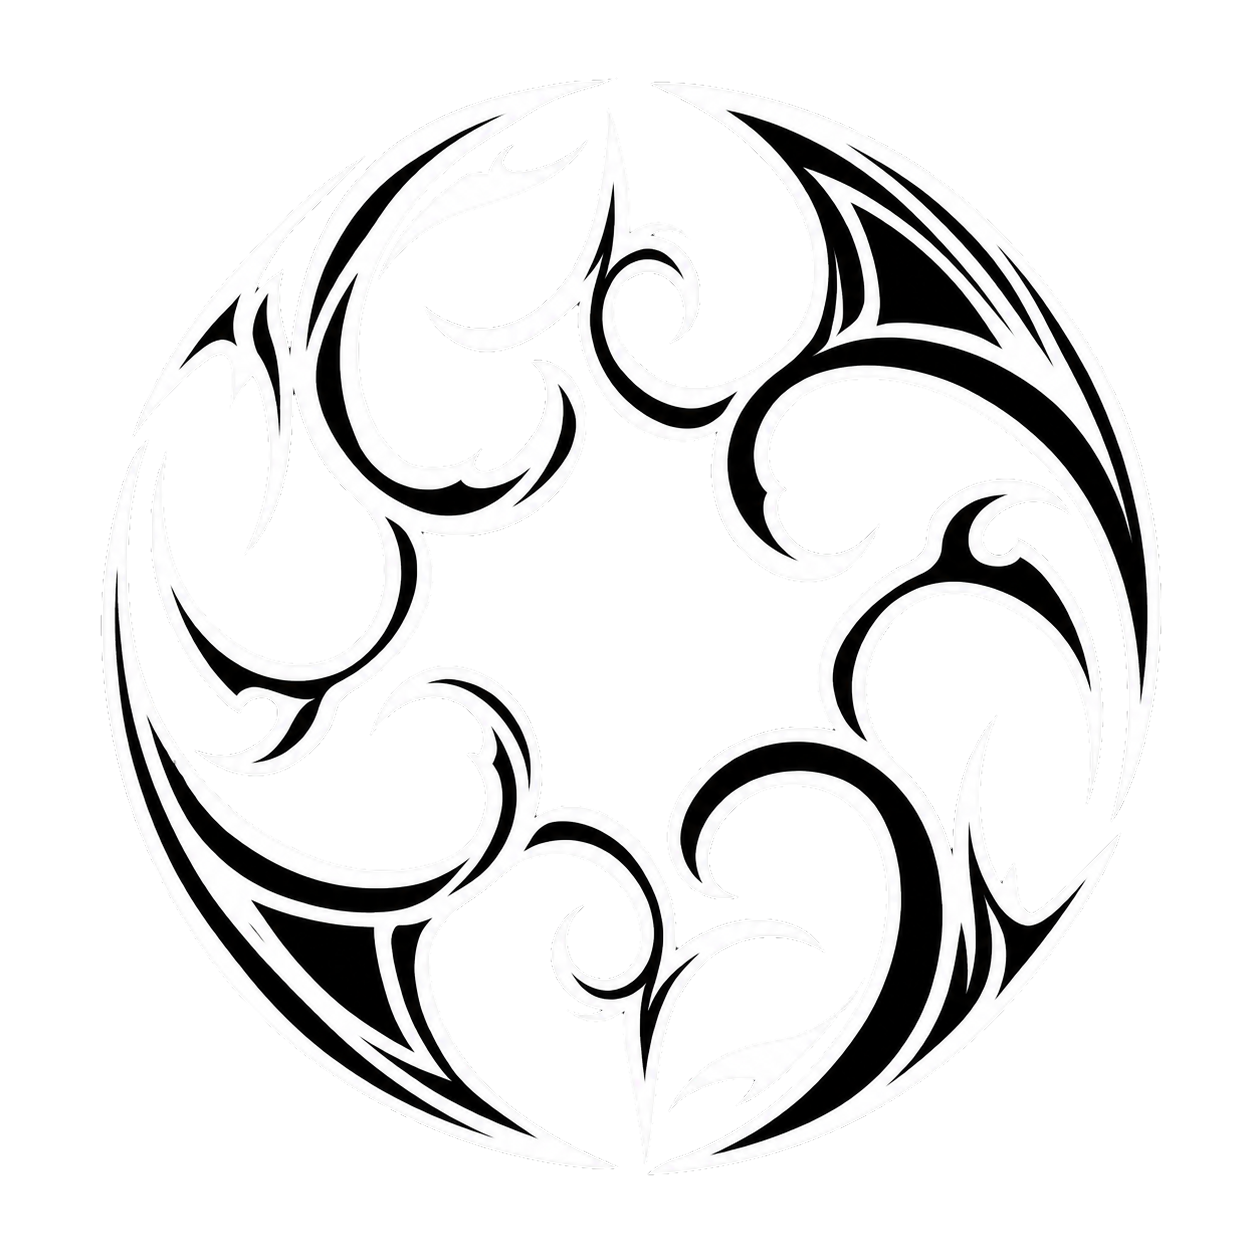
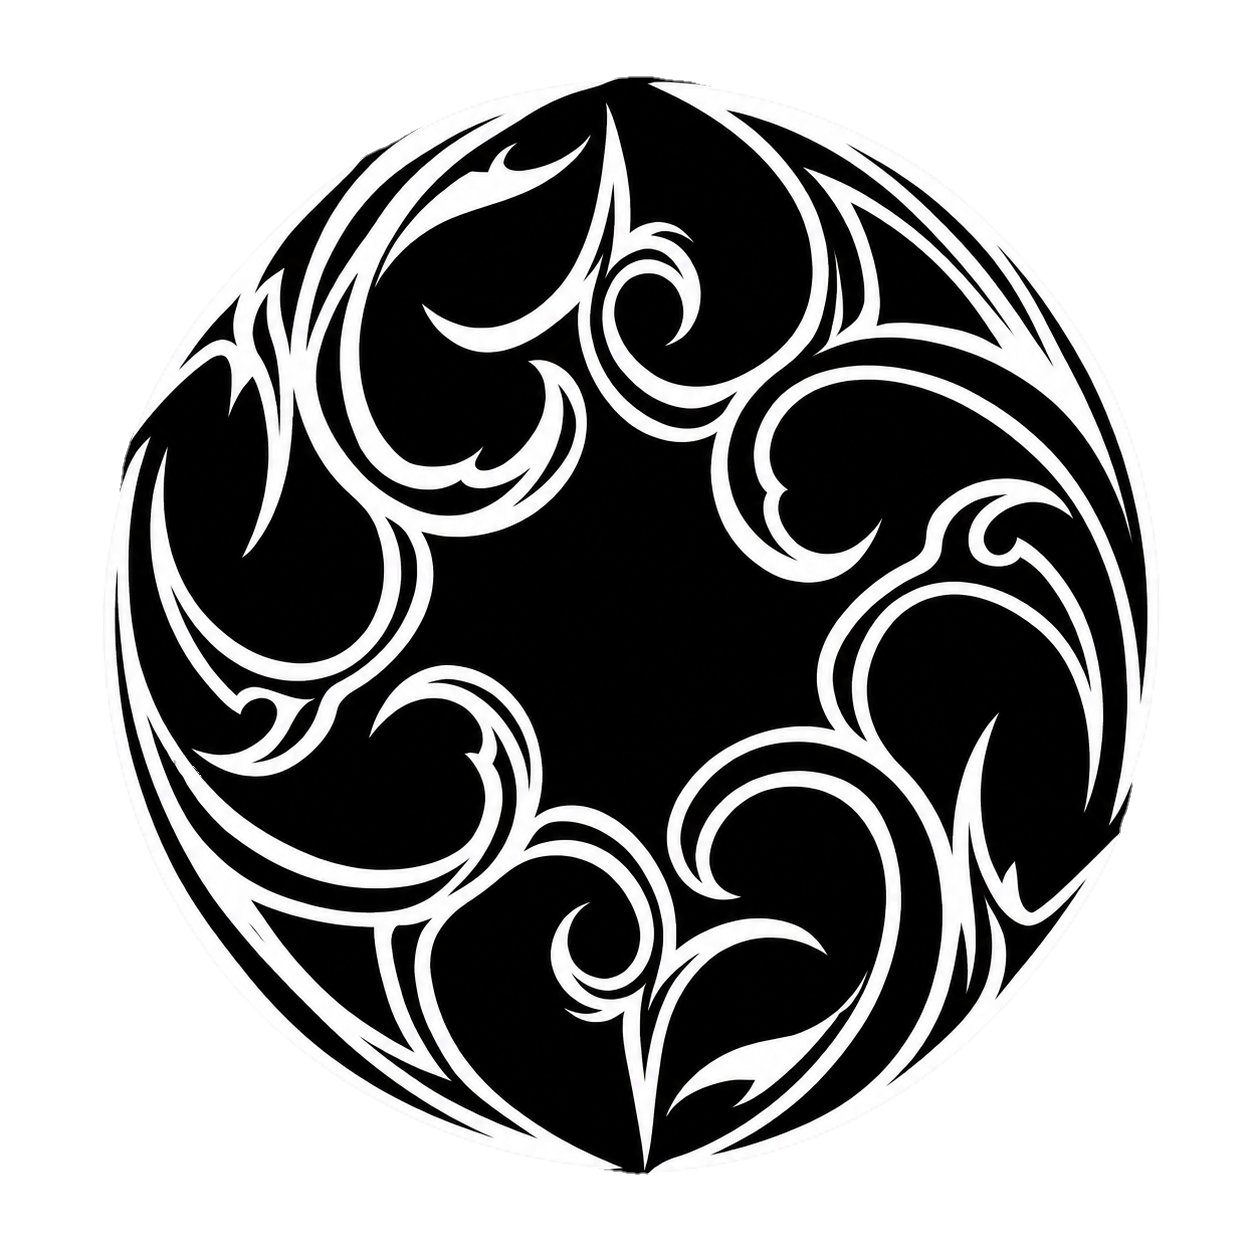
Torna status e vínculos dos personagens objetivos e atualiza o ícone
Status agora é sempre um de três: Vivo/Morto/Desconhecido (remove detalhes como
"arrastado para o Limbo" ou "circunstâncias contestadas"); Krauser passa de
"Destruído" para "Morto". Vínculos ficam enxutos: remove os indiretos/sem relação
direta (Gyotto não tem "vínculo" com as vítimas Tia Lanis/Emma; Viktor não lista
o Mascarado) e encurta as descrições de relação para uma ou duas palavras.

Atualiza também a imagem do ícone do site (mesmo nome de arquivo).

diff --git a/js/data.js b/js/data.js
@@ -13,7 +13,7 @@ const ENTITIES = {
     nome: "Kiana",
     epiteto: "A bardo de [[vardun]] · narradora e protagonista",
     status: "alive",
-    statusLabel: "Viva — arrastada para o [[o-limbo|Limbo]]",
+    statusLabel: "Viva",
     imagem: "Imagens/Kiana.jpeg",
     resumo: "Bardo meia-orc de cabelos brancos e olhos vermelhos, criada em um orfanato e resgatada por Viktor Vanshee. Carrega um poder ainda sem nome.",
     campos: {
@@ -25,8 +25,8 @@ const ENTITIES = {
         { slug: "darin-leafheart", nome: "Darin Leafheart", relacao: "Amigo" },
         { slug: "rurik", nome: "Rurik", relacao: "Figura paterna adotiva" },
         { slug: "calista-vanshee", nome: "Calista Vanshee", relacao: "Aliada" },
-        { slug: "tia-lanis", nome: "Tia Lanis", relacao: "Cuidadora falecida" },
-        { slug: "emma", nome: "Emma", relacao: "Melhor amiga falecida" }
+        { slug: "tia-lanis", nome: "Tia Lanis", relacao: "Cuidadora" },
+        { slug: "emma", nome: "Emma", relacao: "Melhor amiga" }
       ],
       "Aparência": "Meia-orc, cabelos brancos longos, olhos vermelhos brilhantes mesmo no escuro. Carrega sempre um [[ukulele-de-kiana|ukulele]] e uma [[adaga-de-kael|adaga]].",
       "Feitos": "Massacrou sozinha mais de vinte homens na Taverna de Darius, em [[vardun|Vardun]], num episódio de fúria amnésica (o \"apagão\"). Ajudou a derrotar a criatura multi-elemental do [[vale-das-flores-sangrentas|Vale das Flores Sangrentas]]. Confrontou o Falso Presságio nas ruas de [[hikari|Hikari]]. Lutou no ritual da caverna contra o Presságio-isca. Enfrentou diretamente o verdadeiro Quinto Presságio ([[lorde-krauser|Lorde Krauser]]), desenvolvendo em pleno combate a técnica [[manifestacao-harmonica|Manifestação Harmônica]], decisiva para a derrota final do inimigo.",
@@ -44,7 +44,7 @@ const ENTITIES = {
     nome: "Near Shade",
     epiteto: "O elfo da máscara",
     status: "alive",
-    statusLabel: "Vivo — arrastado para o [[o-limbo|Limbo]]",
+    statusLabel: "Vivo",
     imagem: "Imagens/NearShade.jpeg",
     resumo: "Elfo ladino de máscara preta, amigo de Kiana há três anos. Raramente mostra o rosto ou fala sobre o próprio passado.",
     campos: {
@@ -66,7 +66,7 @@ const ENTITIES = {
     nome: "Amnon Akmenos",
     epiteto: "O tiefling exilado",
     status: "alive",
-    statusLabel: "Vivo — arrastado para o [[o-limbo|Limbo]]",
+    statusLabel: "Vivo",
     imagem: "Imagens/AmnonAkmenos.jpeg",
     resumo: "Tiefling de origem burguesa, expulso da própria família por uma acusação injusta. Esconde a dor atrás de deboche e bebida.",
     campos: {
@@ -75,7 +75,7 @@ const ENTITIES = {
         { slug: "kiana", nome: "Kiana", relacao: "Amiga" },
         { slug: "near-shade", nome: "Near Shade", relacao: "Amigo" },
         { slug: "darin-leafheart", nome: "Darin Leafheart", relacao: "Amigo" },
-        { slug: null, nome: "Família Akmenos", relacao: "Rompida e hostil" }
+        { slug: null, nome: "Família Akmenos", relacao: "Família (rompida)" }
       ],
       "Aparência": "Tiefling, chifres curtos, pele de um vermelho vivo.",
       "Feitos": "Segurou com as próprias mãos o núcleo em chamas da criatura elemental do [[vale-das-flores-sangrentas|Vale das Flores Sangrentas]], sofrendo queimaduras graves para permitir que [[calista-vanshee|Calista]] a eliminasse. Lutou com arco contra o Presságio-isca na caverna. Defendeu civis com arma improvisada durante o ataque de sombras em [[hikari|Hikari]].",
@@ -89,7 +89,7 @@ const ENTITIES = {
     nome: "Darin Leafheart",
     epiteto: "O druida dos lobos",
     status: "alive",
-    statusLabel: "Vivo — arrastado para o [[o-limbo|Limbo]]",
+    statusLabel: "Vivo",
     imagem: "Imagens/Darin.jpeg",
     resumo: "Druida humano cujo vínculo com lobos moldou um raro Sigilo Autoformado. Alterna euforia etílica e fuga da própria mente.",
     campos: {
@@ -98,7 +98,7 @@ const ENTITIES = {
         { slug: "kiana", nome: "Kiana", relacao: "Amiga" },
         { slug: "near-shade", nome: "Near Shade", relacao: "Amigo" },
         { slug: "amnon-akmenos", nome: "Amnon Akmenos", relacao: "Amigo" },
-        { slug: "yuto", nome: "Yuto", relacao: "Aliado de combate" }
+        { slug: "yuto", nome: "Yuto", relacao: "Aliado" }
       ],
       "Aparência": "Cabelos castanhos desgrenhados, presença de \"brilho caótico\".",
       "Feitos": "Identificou o loop espacial que prendia o grupo no [[vale-das-flores-sangrentas|Vale das Flores Sangrentas]]. Atuou como cozinheiro do grupo durante a travessia. Lutou com garras espirituais de lobo contra o Presságio-isca na caverna e, ao lado de [[yuto|Yuto]], contra as sombras gigantes no ataque a [[hikari|Hikari]].",
@@ -112,17 +112,16 @@ const ENTITIES = {
     nome: "Viktor Vanshee",
     epiteto: "O Pilar do Gelo · Mestre do Gelo",
     status: "alive",
-    statusLabel: "Vivo, gravemente debilitado — arrastado para o [[o-limbo|Limbo]]",
+    statusLabel: "Vivo",
     imagem: "Imagens/ViktorVanshee.jpeg",
     resumo: "Meio-elfo nascido com o Sigilo do Gelo já desperto — um caso raríssimo de Herança Celestial. Mentor e salvador de Kiana.",
     campos: {
       "Biografia": "Meio-elfo que nasceu já com seu Sigilo desperto, um caso raríssimo de Herança Celestial. Anos antes do início da trama, chegou tarde demais para impedir o massacre de um orfanato, mas matou o atacante — [[gyotto|Gyotto]], o Sexto Presságio, então ainda conhecido apenas como \"o garoto da tinta\" — e resgatou a única sobrevivente, [[kiana|Kiana]], tornando-se seu mentor. Casado com [[calista-vanshee|Calista Vanshee]]. Perdeu o melhor amigo, [[kael|Kael]], em circunstâncias contestadas — Viktor afirma que goblins o mataram, mas o Falso Presságio reivindica ter matado Kael pessoalmente, uma contradição jamais resolvida neste volume. É reverenciado quase como uma divindade por \"[[o-mascarado|o Mascarado]]\", figura de autoridade entre os Presságios, que o descreve como alguém que já matou ao menos um Presságio numerado (o Sexto, Gyotto) e, possivelmente, outro (Gauss, supostamente ligado ao misterioso [[ankiquilarke|Ankiquilarke]]) — ainda que os registros históricos oficiais atribuam essa segunda morte a um tal \"Gale Akmenos\". Foi sequestrado, torturado e quase destruído por [[lorde-krauser|Lorde Krauser]] antes do início da busca do grupo por ele; libertado da corrupção mágica que o consumia apenas pelo sacrifício final de Calista.",
       "Vínculos": [
         { slug: "kiana", nome: "Kiana", relacao: "Aprendiz" },
-        { slug: "calista-vanshee", nome: "Calista Vanshee", relacao: "Esposa falecida" },
-        { slug: "kael", nome: "Kael", relacao: "Melhor amigo falecido" },
-        { slug: "rurik", nome: "Rurik", relacao: "Pai" },
-        { slug: "o-mascarado", nome: "O Mascarado", relacao: "Reverencia-o; relação não esclarecida" }
+        { slug: "calista-vanshee", nome: "Calista Vanshee", relacao: "Esposa" },
+        { slug: "kael", nome: "Kael", relacao: "Melhor amigo" },
+        { slug: "rurik", nome: "Rurik", relacao: "Pai" }
       ],
       "Aparência": "Traços élficos marcados, cabelos brancos longos presos, veste tons de branco e azul ou um sobretudo pesado; postura de \"viajante antigo\".",
       "Feitos": "Matou [[gyotto|Gyotto]], o Sexto Presságio — o mesmo \"garoto da tinta\" responsável pelo massacre do orfanato de Kiana. Resgatou e criou Kiana. Possivelmente matou também o Presságio Gauss. Foi capturado por Krauser. Libertado pelo sacrifício de Calista. Derrotou [[lorde-krauser|Lorde Krauser]] em combate direto, culminando num golpe surpreendente de fogo branco-dourado chamado \"Punho Flamejante\".",
@@ -146,9 +145,8 @@ const ENTITIES = {
       "Biografia": "Esposa de [[viktor-vanshee|Viktor Vanshee]], natural de [[emberfall|EmberFall]], onde resolvia \"assuntos pendentes da família\" antes do início da trama. Guerreira e arqueira de precisão extraordinária, com conhecimento de runas (embora inferior ao de Viktor). Contou ao grupo a lenda de Kynare e o Corvo Celeste para explicar a natureza dos [[termo-pressagio|Presságios]]. Ao ser atingida pelo cristal vermelho de [[lorde-krauser|Lorde Krauser]], gritou \"MÃE!\" — um grito de agonia que sugere um trauma ou vínculo não resolvido com a própria mãe, jamais esclarecido no volume. No clímax da batalha final, sacrificou a própria vida beijando Viktor para transferir para si a corrupção mágica (as cicatrizes negras) que o consumia, purificando-o ao custo da própria morte.",
       "Vínculos": [
         { slug: "viktor-vanshee", nome: "Viktor Vanshee", relacao: "Marido" },
-        { slug: "kiana", nome: "Kiana", relacao: "Quase-irmã mais velha" },
-        { slug: "kael", nome: "Kael", relacao: "Amigo do casal, falecido" },
-        { slug: null, nome: "Sua mãe", relacao: "Vínculo não resolvido; mencionada só em um grito de agonia" }
+        { slug: "kiana", nome: "Kiana", relacao: "Quase-irmã" },
+        { slug: "kael", nome: "Kael", relacao: "Amigo" }
       ],
       "Aparência": "Cabelos ruivos ondulados, presença segura e \"maior que a própria vida\".",
       "Feitos": "Resgatou o grupo preso no [[vale-das-flores-sangrentas|Vale das Flores Sangrentas]]. Derrotou a essência de vento da criatura elemental. Investigou [[lorde-krauser|Lorde Krauser]] junto a Kiana em [[hikari|Hikari]]. Lutou bravamente contra Krauser até ser mortalmente ferida. Sacrificou-se para purificar e salvar Viktor.",
@@ -165,14 +163,13 @@ const ENTITIES = {
     nome: "Yuto",
     epiteto: "O ronin de passagem",
     status: "unknown",
-    statusLabel: "Destino incerto após o ritual final",
+    statusLabel: "Desconhecido",
     imagem: "Imagens/Yuto.jpeg",
     resumo: "Ronin viajante que cruza o caminho do grupo em Hikari, em busca de alguém. Luta com maestria puramente marcial.",
     campos: {
       "Biografia": "Ronin viajante que cruza o caminho do grupo em [[hikari|Hikari]] \"por um motivo parecido\" ao deles — em busca de alguém, sem maiores detalhes revelados neste volume. Sereno e observador, promete a [[darin-leafheart|Darin]] que \"seus caminhos se cruzarão novamente\" — presságio que se cumpre quando reaparece, providencialmente, durante o ataque de sombras ao festival.",
       "Vínculos": [
-        { slug: "darin-leafheart", nome: "Darin Leafheart", relacao: "Aliado de combate" },
-        { slug: null, nome: "Restante do grupo", relacao: "Aliados temporários" }
+        { slug: "darin-leafheart", nome: "Darin Leafheart", relacao: "Aliado" }
       ],
       "Aparência": "Haori cor de terracota com padrões de ondas negras, quimono azul-escuro, cachecol xadrez cinza, duas katanas embainhadas, cabelo negro com mechas azul e vermelho preso em rabo de cavalo lateral alto, um pequeno galho mascado no canto da boca, curativo no nariz sugerindo brigas recentes.",
       "Feitos": "Salvou Darin de um golpe fatal durante o ataque de sombras em [[hikari|Hikari]]. Derrotou, em conjunto com Darin, uma criatura de sombra gigante. Percebeu que a origem do ataque vinha do castelo — \"o coração desse pesadelo\".",
@@ -185,18 +182,17 @@ const ENTITIES = {
     type: "personagem",
     nome: "Lorde Krauser",
     epiteto: "O verdadeiro Quinto Presságio",
-    status: "destroyed",
-    statusLabel: "Destruído",
+    status: "dead",
+    statusLabel: "Morto",
     imagem: null,
     resumo: "Draconato rejeitado pelo próprio pai, tornou-se Presságio e governou Hikari por dez anos sob identidade forjada.",
     campos: {
       "Biografia": "Nasceu com traços Draconato visíveis desde o berço. Seu pai humano o rejeitou com violência, chamando-o de \"monstro\" e \"dragão\", e assassinou a mãe de Krauser, Layla, estrangulando-a diante do próprio filho. O jovem Krauser reagiu incinerando o pai vivo com uma rajada de fogo — seu primeiro uso conhecido de poder. Tornou-se, com o tempo, um dos [[termo-pressagio|Presságios]]: seres que venderam o próprio livre-arbítrio por poder a serviço de uma entidade conhecida apenas como \"[[a-presenca|a Presença]]\" ou \"o Mestre\". Já adulto, encontrou na floresta uma criança rejeitada com poderes de \"tinta negra\" — [[gyotto|Gyotto]] — e a corrompeu deliberadamente, reproduzindo, sem hesitar, o mesmo ciclo de abuso que o formara. Anos depois, o já corrompido Gyotto destruiria o orfanato onde [[kiana|Kiana]] crescia, tornando Krauser indiretamente responsável pela morte de [[tia-lanis|Tia Lanis]], [[emma|Emma]] e as demais crianças. Por ser considerado \"o Presságio mais fraco\" do grupo, foi humilhado e exilado por \"[[o-mascarado|o Mascarado]]\" para a cidadezinha de [[hikari|Hikari]], com ordens de assassinar o Lorde local, tomar seu lugar e vigiar secretamente a região. Governou como um \"Lorde heroico\" fabricado por dez anos, orquestrando em segredo o sequestro e a tortura de [[viktor-vanshee|Viktor Vanshee]] através de um Presságio-isca (o \"encapuzado\"/metamorfo).",
       "Vínculos": [
-        { slug: null, nome: "Layla", relacao: "Mãe falecida" },
-        { slug: null, nome: "O pai", relacao: "Falecido; morto pelo próprio Krauser" },
-        { slug: "o-mascarado", nome: "O Mascarado", relacao: "Superior direto" },
-        { slug: "gyotto", nome: "Gyotto", relacao: "Vítima que corrompeu" },
-        { slug: "viktor-vanshee", nome: "Viktor Vanshee", relacao: "Inimigo declarado" }
+        { slug: null, nome: "Layla", relacao: "Mãe" },
+        { slug: "o-mascarado", nome: "O Mascarado", relacao: "Superior" },
+        { slug: "gyotto", nome: "Gyotto", relacao: "Corrompido por ele" },
+        { slug: "viktor-vanshee", nome: "Viktor Vanshee", relacao: "Inimigo" }
       ],
       "Aparência": "Híbrido humano-Draconato: metade do rosto humana, de traços nobres e olheiras de exaustão; a outra metade coberta por escamas rígidas, com um olho reptiliano. Veste capa azul profunda, colete de couro utilitário e uma ombreira metálica no lado humano do corpo. Em combate, revela escamas enegrecidas e placas ósseas mais extensas.",
       "Feitos": "Governou [[hikari|Hikari]] por cerca de dez anos sob identidade forjada. Corrompeu [[gyotto|Gyotto]], ainda criança, plantando a semente da tragédia que destruiria o orfanato de Kiana. Orquestrou o sequestro e a tortura de Viktor Vanshee. Matou [[calista-vanshee|Calista Vanshee]]. Feriu gravemente Kiana. Invocou, com o próprio corpo como componente ritual, o feitiço \"[[o-limbo|Oblitus Limbo]]\", abrindo um portal que arrastou todo o grupo protagonista para dentro do Limbo.",
@@ -214,17 +210,14 @@ const ENTITIES = {
     nome: "Gyotto",
     epiteto: "O garoto da tinta · o Sexto Presságio",
     status: "dead",
-    statusLabel: "Morto (antes do início da trama)",
+    statusLabel: "Morto",
     imagem: "Imagens/Gyotto.jpeg",
     resumo: "Criança rejeitada e corrompida por Krauser, transformada em arma. Destruiu o orfanato onde Kiana crescia.",
     campos: {
       "Biografia": "Criança rejeitada pelo mundo, encontrada por [[lorde-krauser|Krauser]] numa floresta aos sete anos de idade, já com os olhos marcados por \"globos de escuridão absoluta\" de pupilas azul-elétricas — sinal de um poder inato sobre uma substância negra e viscosa, semelhante a tinta. Krauser reconheceu nele o mesmo tipo de rejeição que sofrera na própria infância e o corrompeu deliberadamente, moldando-o à imagem do próprio trauma. Anos depois, já como o Sexto Presságio, um Gyotto adolescente — cerca de dezesseis anos — atacou o orfanato onde [[kiana|Kiana]] crescia, matando cuidadoras e crianças com jatos de tinta e um feitiço de sono em massa que adormeceu todas as crianças presentes, exceto Kiana. [[viktor-vanshee|Viktor Vanshee]] chegou durante o massacre e o matou, empalando-o com uma estaca de gelo cristalino — tarde demais para salvar qualquer outra pessoa, mas a tempo de resgatar a única sobrevivente. Sua morte só é mencionada diretamente muito depois, num conselho secreto de Presságios testemunhado por Kiana dentro da mente de Krauser: ali, o Mascarado revela que Gyotto morria \"enquanto procurava pelo [[o-fragmento|Fragmento]]\", e que sua proximidade com Viktor no momento da morte \"não é coincidência\".",
       "Vínculos": [
         { slug: "lorde-krauser", nome: "Lorde Krauser", relacao: "Corruptor" },
-        { slug: "viktor-vanshee", nome: "Viktor Vanshee", relacao: "Matador" },
-        { slug: "tia-lanis", nome: "Tia Lanis", relacao: "Vítima" },
-        { slug: "emma", nome: "Emma", relacao: "Vítima" },
-        { slug: "kiana", nome: "Kiana", relacao: "Única sobrevivente do seu ataque" }
+        { slug: "viktor-vanshee", nome: "Viktor Vanshee", relacao: "Inimigo" }
       ],
       "Aparência": "Quando criança na floresta: magro, maltrapilho, olhos de escuridão absoluta com pupilas azul-elétricas. Anos depois, no orfanato: um adolescente magro, sem camisa, calça marrom gasta, os mesmos olhos inumanos — capaz de se dissolver em tinta negra e branca, viscosa, que atravessa paredes como se a matéria sólida fosse ilusória.",
       "Feitos": "Destruiu o orfanato de Kiana, matando Tia Lanis, Emma e todas as demais crianças presentes, exceto Kiana. Procurava por \"[[o-fragmento|o Fragmento]]\" no momento de sua morte — possivelmente ligado à [[peca-perdida|Peça Perdida]] que a Presença busca no prólogo do livro.",
@@ -239,8 +232,8 @@ const ENTITIES = {
     type: "personagem",
     nome: "Rurik",
     epiteto: "Dono da Taverna de Rurik, pai de Viktor",
-    status: "unknown",
-    statusLabel: "Vivo (Vardun)",
+    status: "alive",
+    statusLabel: "Vivo",
     imagem: null,
     resumo: "Dono da taverna que serve de coração social de Vardun. Revelado como pai de Viktor Vanshee.",
     campos: {
@@ -253,7 +246,7 @@ const ENTITIES = {
     nome: "Tia Lanis",
     epiteto: "Cuidadora do orfanato",
     status: "dead",
-    statusLabel: "Morta (antes do início da trama)",
+    statusLabel: "Morta",
     imagem: null,
     resumo: "Cuidadora que encontrou e criou Kiana no orfanato. Morta no ataque de Gyotto.",
     campos: {
@@ -269,7 +262,7 @@ const ENTITIES = {
     nome: "Emma",
     epiteto: "Melhor amiga de Kiana no orfanato",
     status: "dead",
-    statusLabel: "Morta (antes do início da trama)",
+    statusLabel: "Morta",
     imagem: null,
     resumo: "Melhor amiga de infância de Kiana no orfanato. Morta no ataque de Gyotto.",
     campos: {
@@ -282,7 +275,7 @@ const ENTITIES = {
     nome: "Kael",
     epiteto: "Melhor amigo de Viktor",
     status: "dead",
-    statusLabel: "Morto, circunstâncias contestadas",
+    statusLabel: "Morto",
     imagem: null,
     resumo: "Melhor amigo de Viktor e Calista, morto em circunstâncias nunca totalmente esclarecidas.",
     campos: {
@@ -294,8 +287,8 @@ const ENTITIES = {
     type: "personagem",
     nome: "Matilde",
     epiteto: "Anciã de Hikari",
-    status: "unknown",
-    statusLabel: "Viva (Hikari)",
+    status: "alive",
+    statusLabel: "Viva",
     imagem: null,
     resumo: "Idosa de Hikari que Kiana ajuda com uma lista de compras simbólicas, em troca de uma pulseira dourada.",
     campos: {
@@ -314,8 +307,8 @@ const ENTITIES = {
     campos: {
       "Biografia": "Figura de autoridade entre os [[termo-pressagio|Presságios]], com chifres esculpidos em osso antigo. Comanda reuniões do conselho secreto, decide punições — como o exílio de [[lorde-krauser|Krauser]] para [[hikari|Hikari]] — e reverencia [[viktor-vanshee|Viktor Vanshee]] quase como uma divindade, associando-o ao evento do \"[[ankiquilarke|Ankiquilarke]]\" e à morte do Presságio Gauss. A natureza exata dessa reverência não é esclarecida no Volume 1.",
       "Vínculos": [
-        { slug: "lorde-krauser", nome: "Lorde Krauser", relacao: "Subordinado, exilado por sua ordem" },
-        { slug: "viktor-vanshee", nome: "Viktor Vanshee", relacao: "Reverenciado por ele" }
+        { slug: "lorde-krauser", nome: "Lorde Krauser", relacao: "Subordinado" },
+        { slug: "viktor-vanshee", nome: "Viktor Vanshee", relacao: "Reverencia-o" }
       ]
     }
   },
